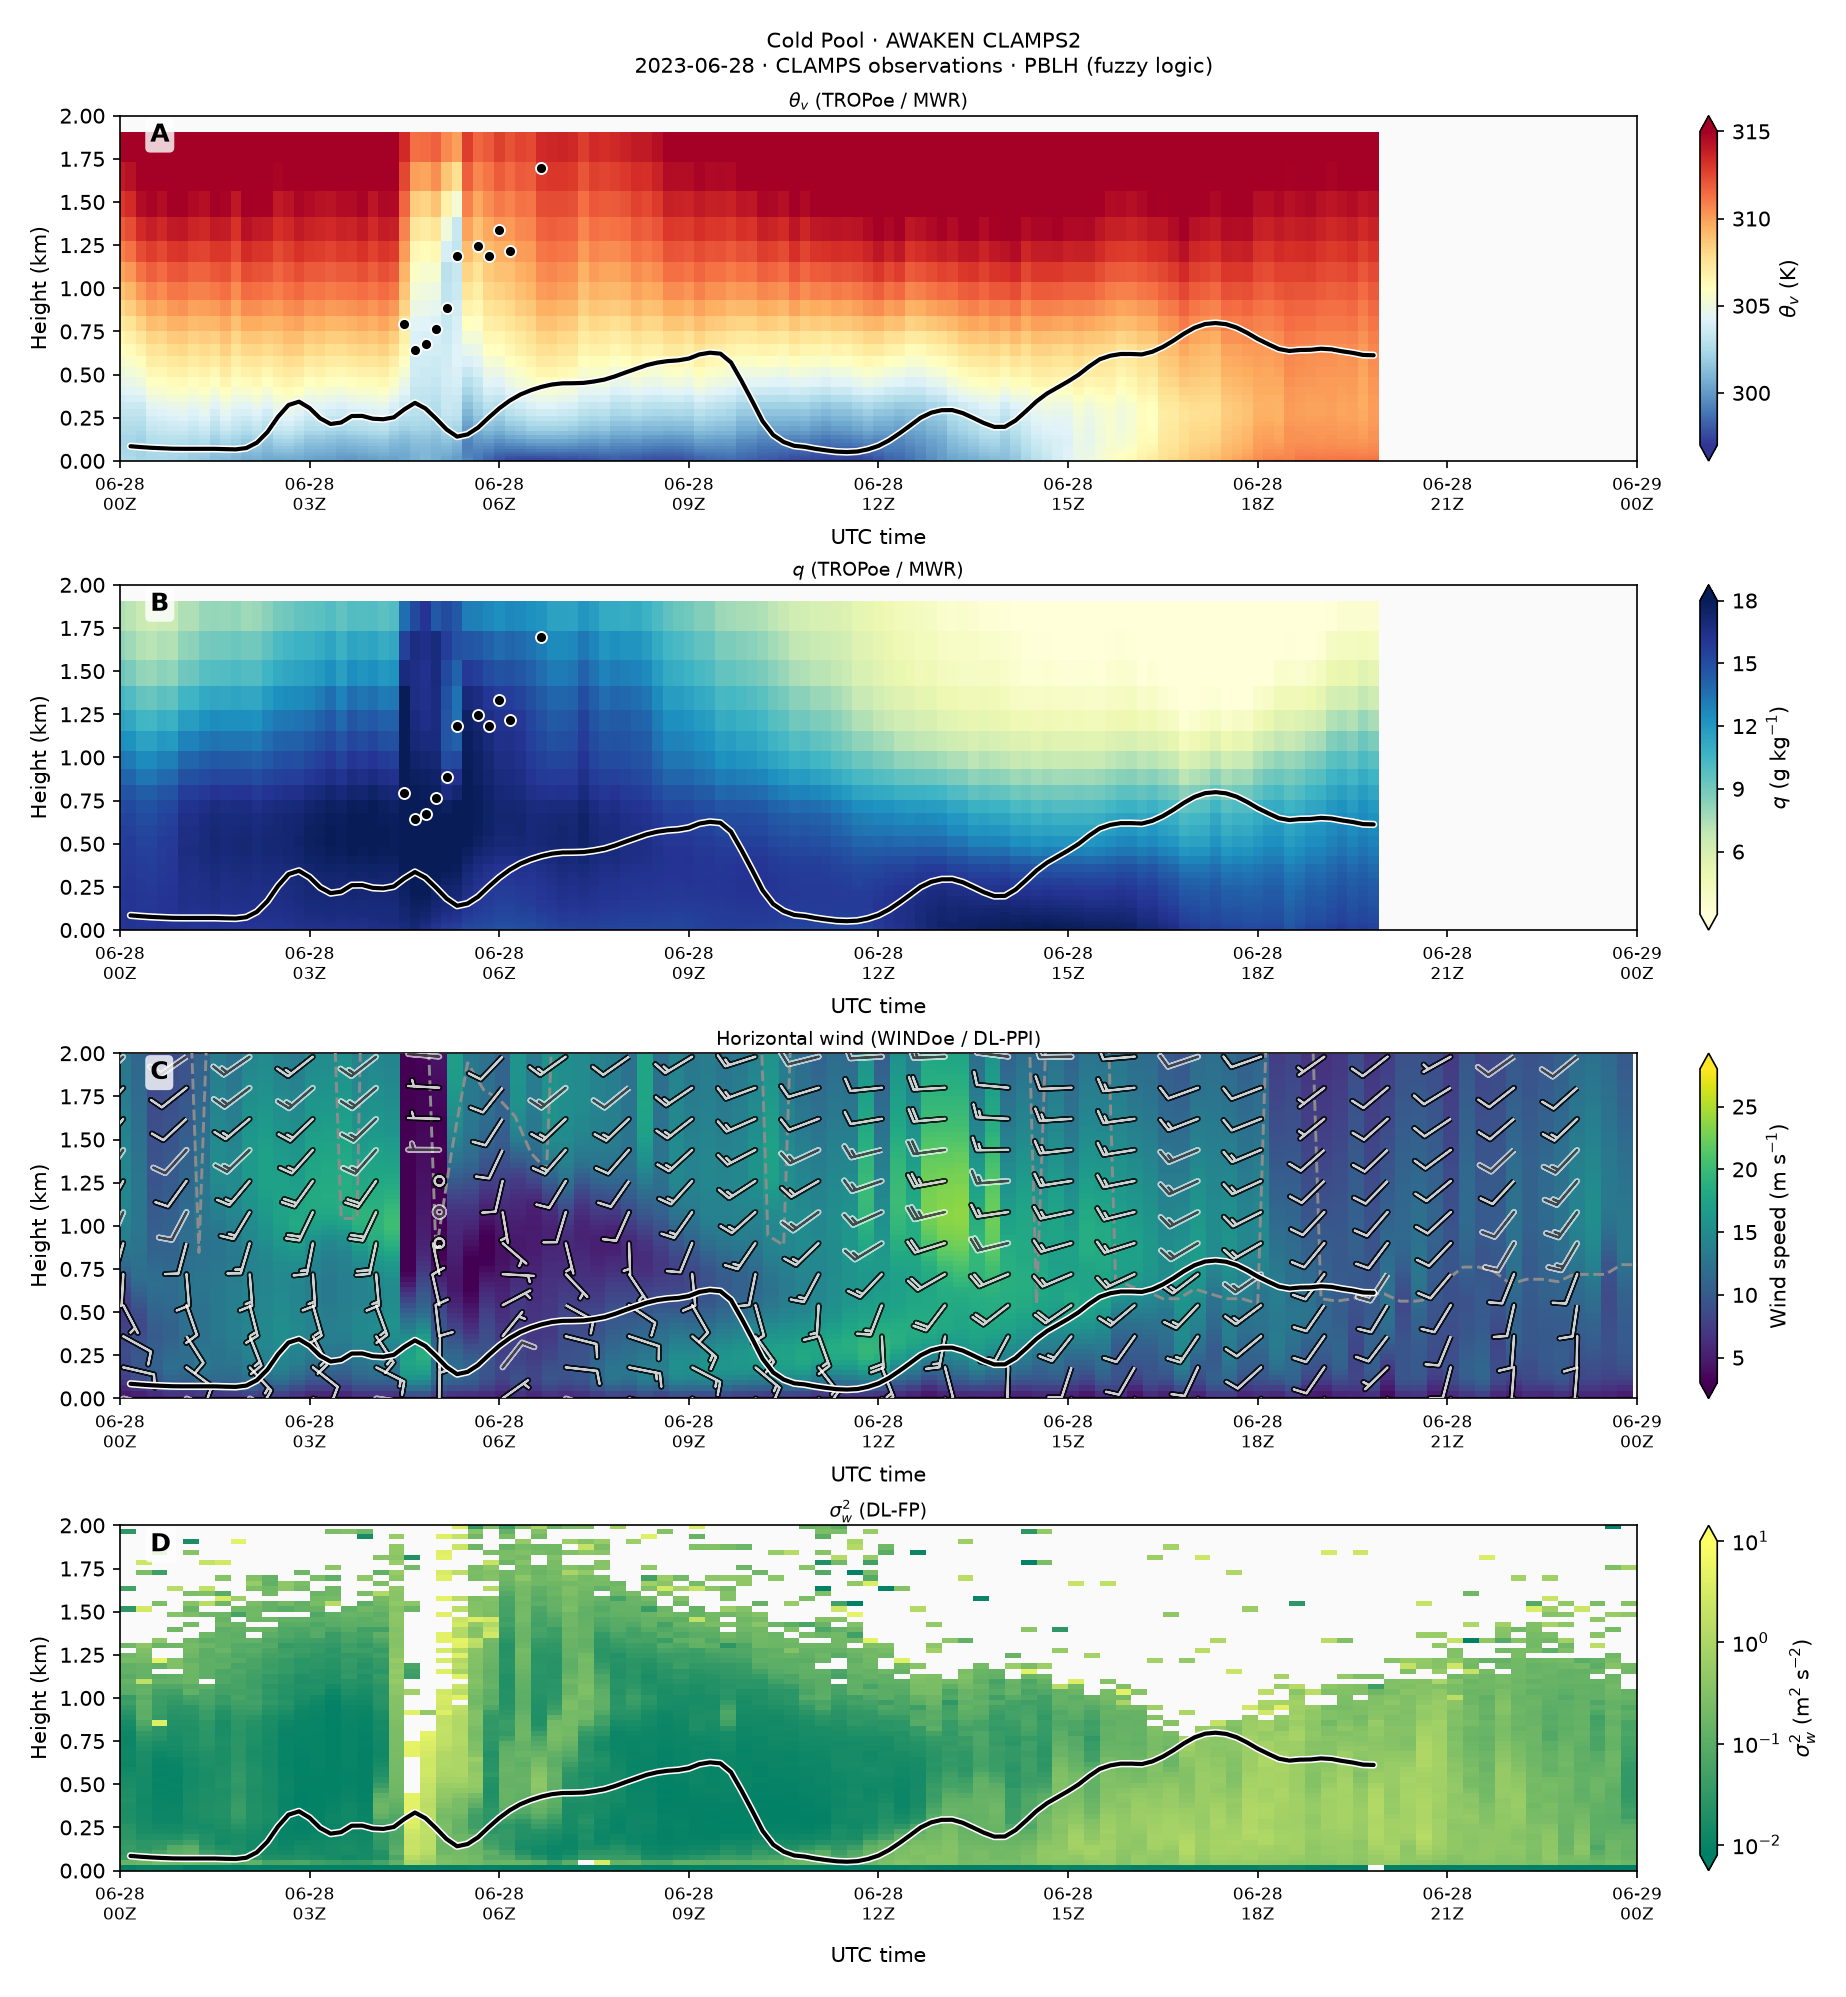
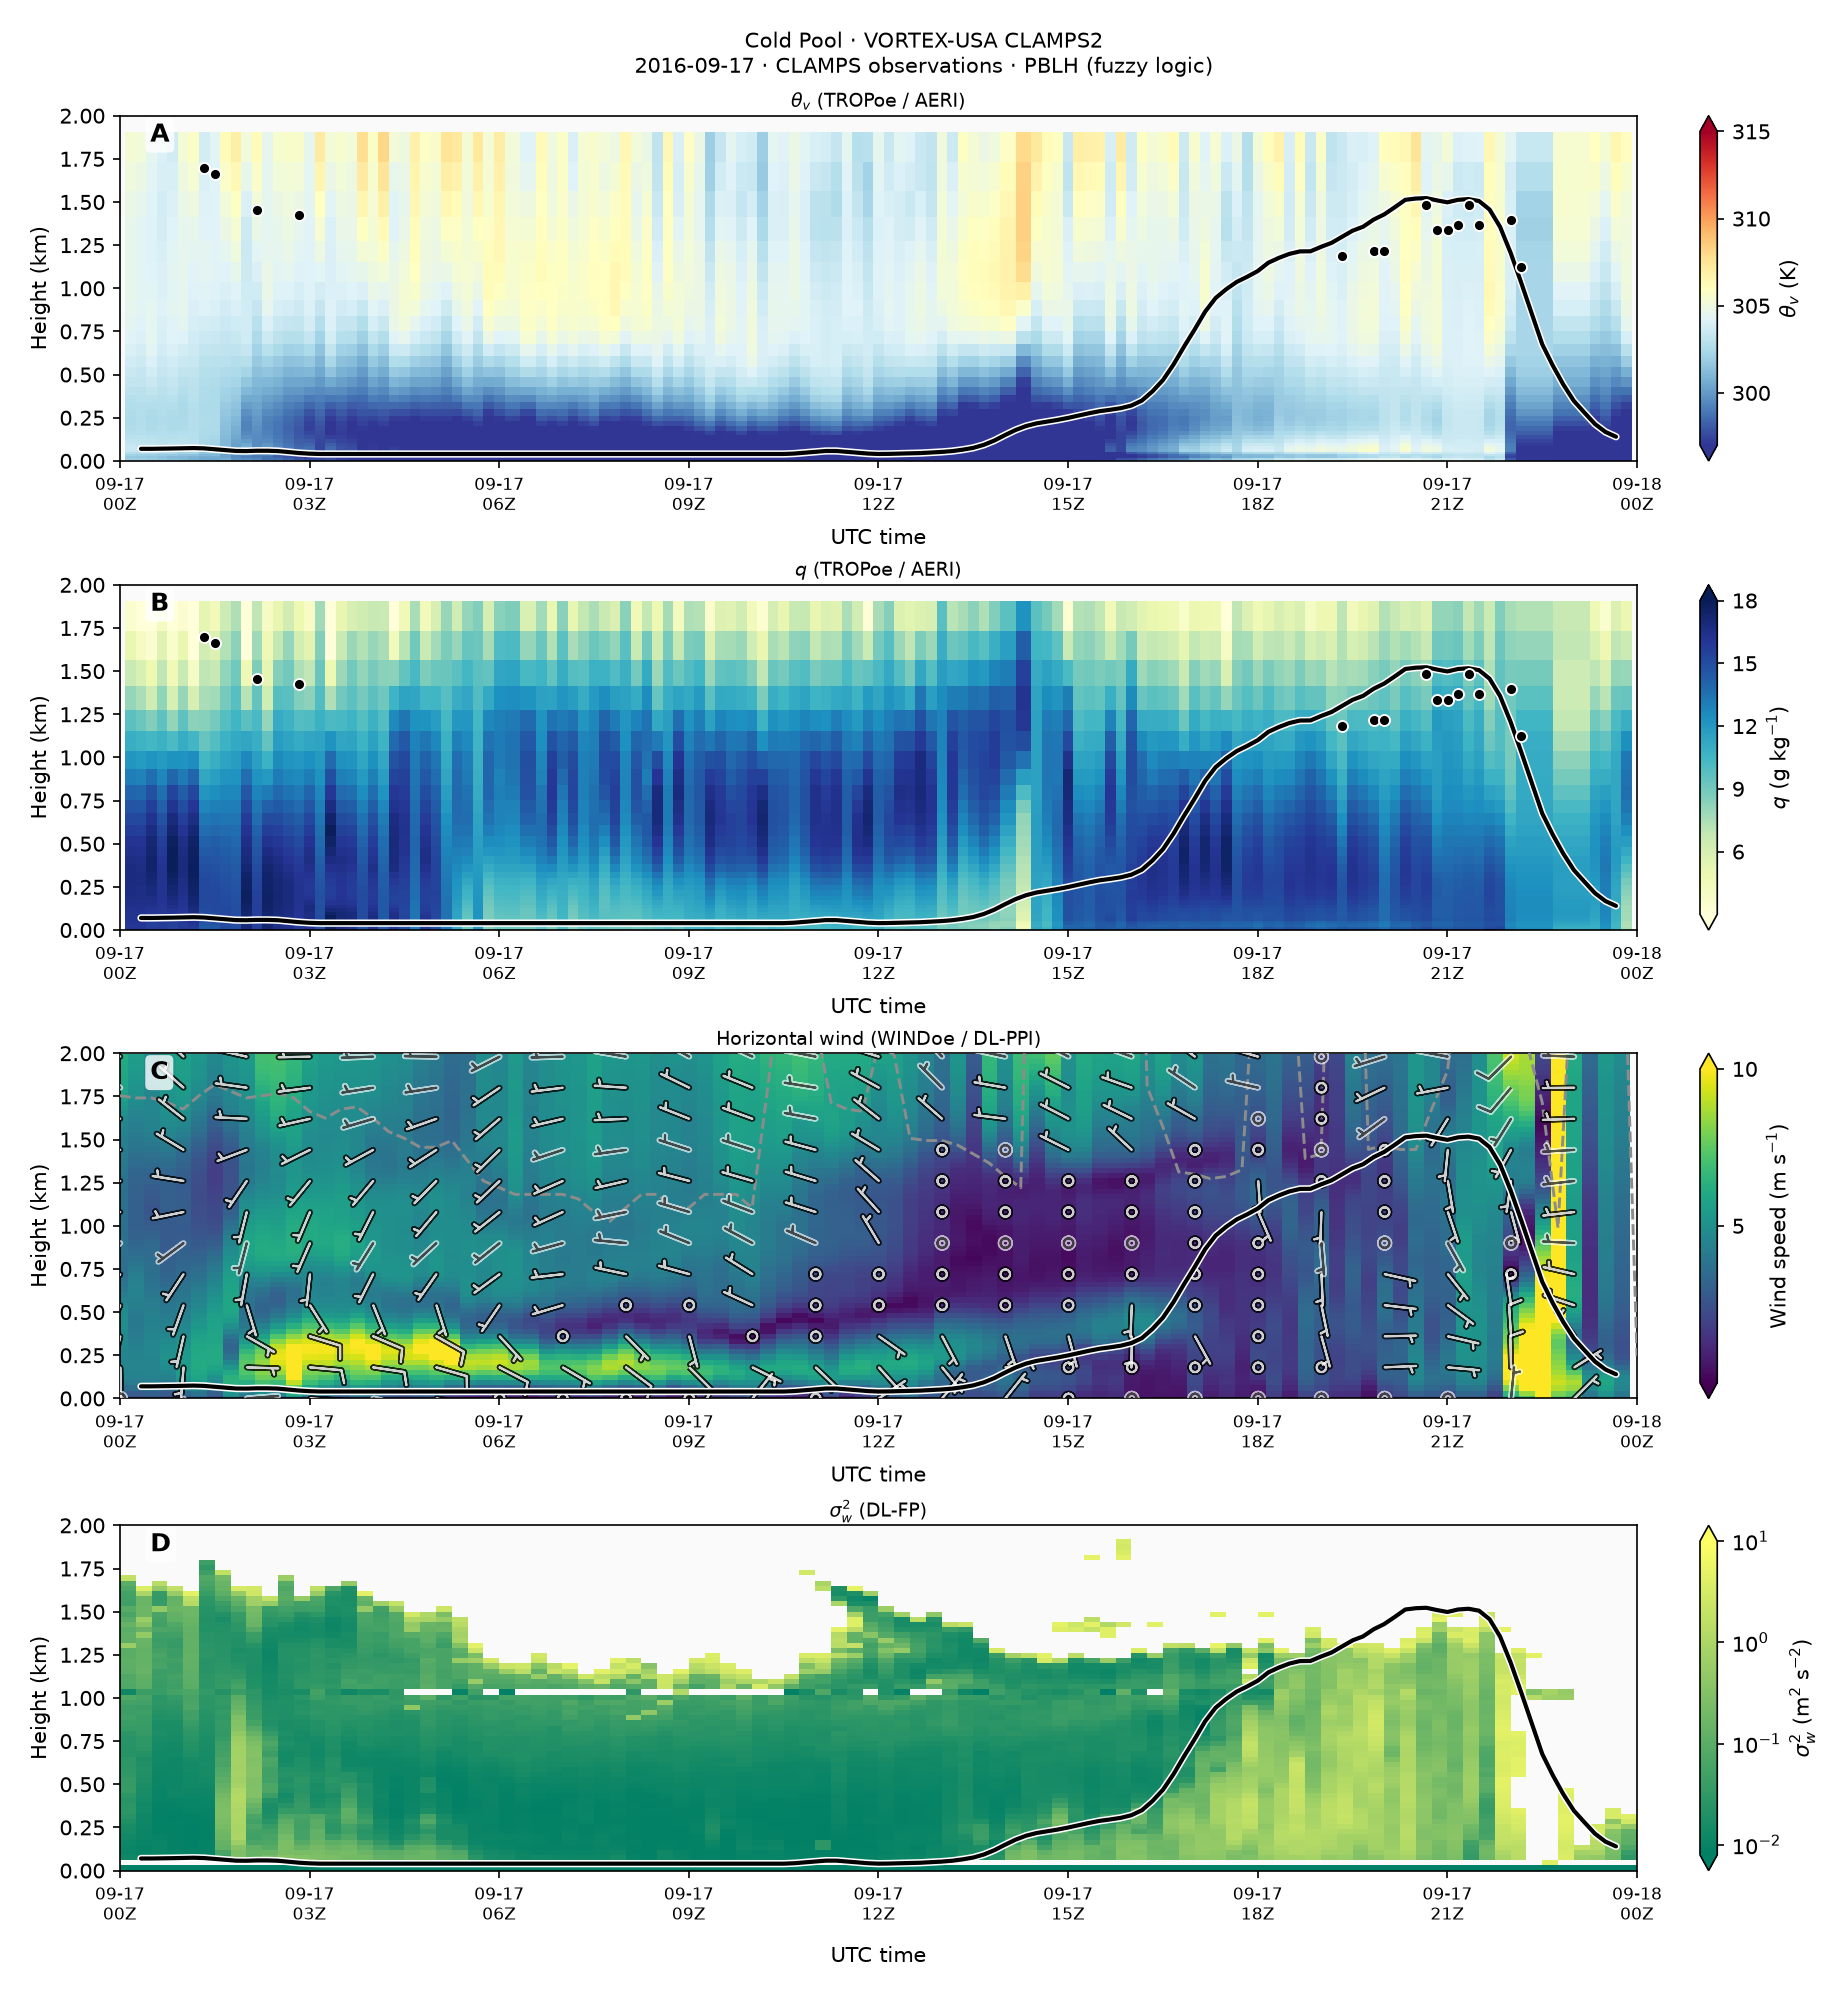
Publish updated case narratives and auxiliary figures for gallery cases.
Refresh deep_cbl_c1 thermo-retrieval context and cold_pool_c2 for VORTEX-USA 2016-09-17, add evening aux plots and KTLX radar, and sync new aux images for deep_cbl_c2, fropa, la_interaction, and sharp_grad cases.

diff --git a/case-table.html b/case-table.html
@@ -138,10 +138,10 @@
             <td>AWAKEN</td>
             <td>Orlando, OK</td>
           </tr>
-          <tr class="case-table__row" tabindex="0" role="link" data-href="case.html?id=deep_cbl_c2" data-date="2023-08-25" data-platform="CLAMPS2" data-title="Deep Convective Boundary Layer" data-campaign="AWAKEN" data-location="Orlando, OK">
+          <tr class="case-table__row" tabindex="0" role="link" data-href="case.html?id=deep_cbl_c2" data-date="2023-08-25" data-platform="CLAMPS2" data-title="Mature CBL" data-campaign="AWAKEN" data-location="Orlando, OK">
             <td><a href="case.html?id=deep_cbl_c2">August 25, 2023</a></td>
             <td>CLAMPS2</td>
-            <td>Deep Convective Boundary Layer</td>
+            <td>Mature CBL</td>
             <td>AWAKEN</td>
             <td>Orlando, OK</td>
           </tr>